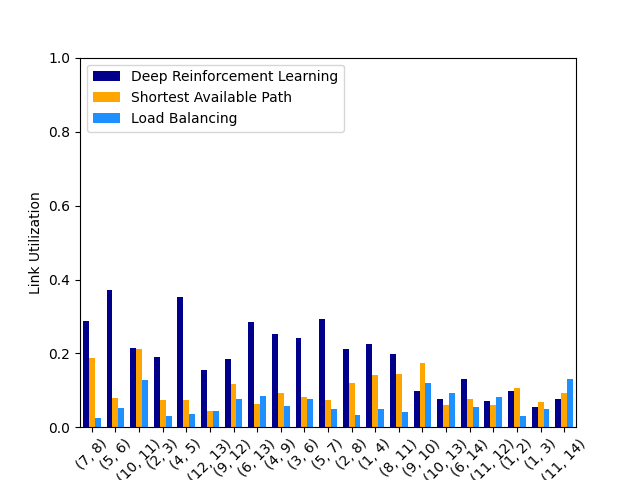
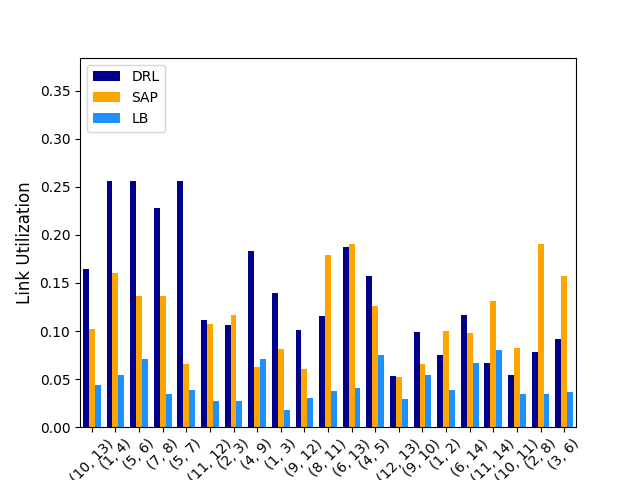
Update Success Rate Fig

diff --git a/DQN/evaluate_DQN.py b/DQN/evaluate_DQN.py
@@ -749,9 +749,9 @@ if __name__ == "__main__":
         edge_utilize.append(edge_)
     
     def compare_edge(e):
-        return e["betw"]
+        return e["rel"]
     
-    edge_utilize.sort(reverse = True, key = compare_edge)
+    edge_utilize.sort(reverse = False, key = compare_edge)
     
     fig = plt.figure()
     
@@ -763,7 +763,7 @@ if __name__ == "__main__":
     
     # plt.axis("tight")
     plt.xlim([edges_arange.min() - 2, edges_arange.max() + 2])
-    plt.ylim([0.0, 1.001])
+    plt.ylim([0.0, (np.max(dqn_utilize) * 1.5)]) # 1.001
     plt.xlabel("Links / Edges", fontsize=12)
     plt.ylabel("Link Utilization", fontsize=12)
     plt.legend(loc = "upper left")
